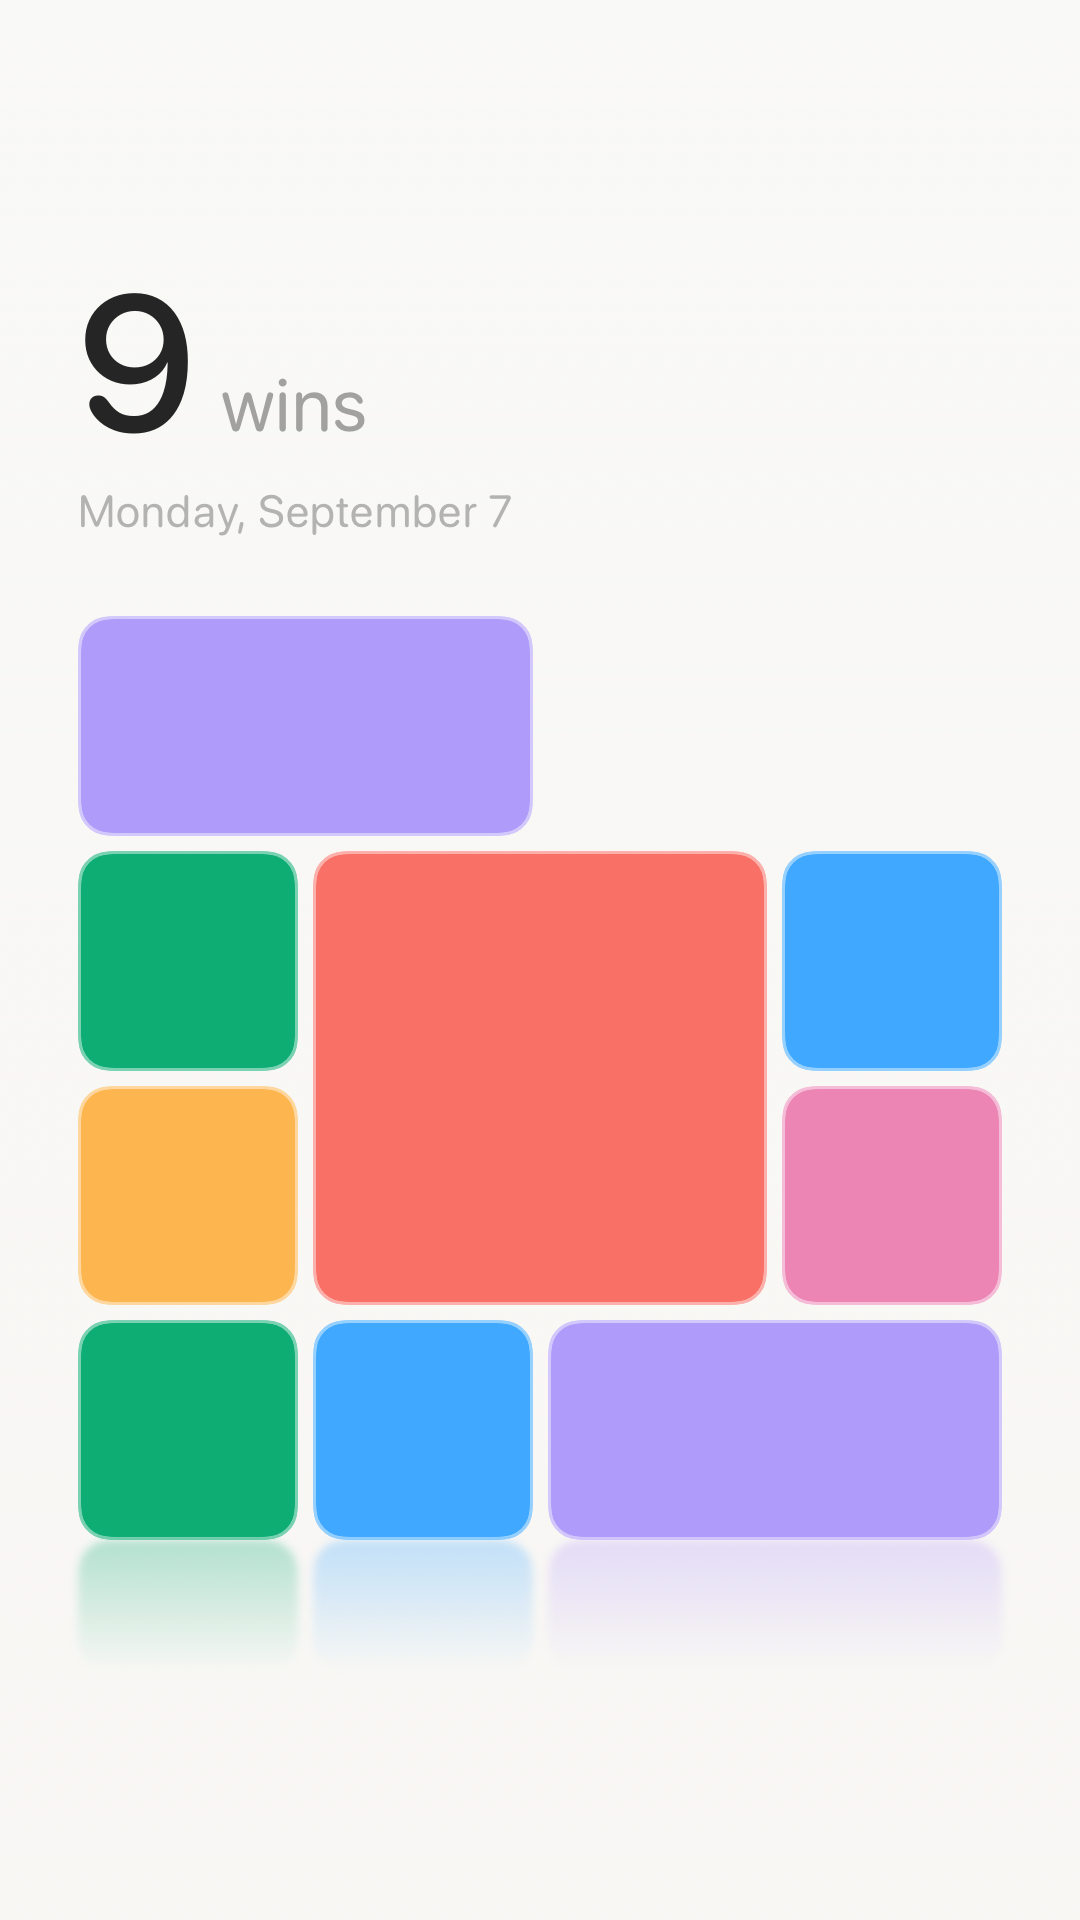
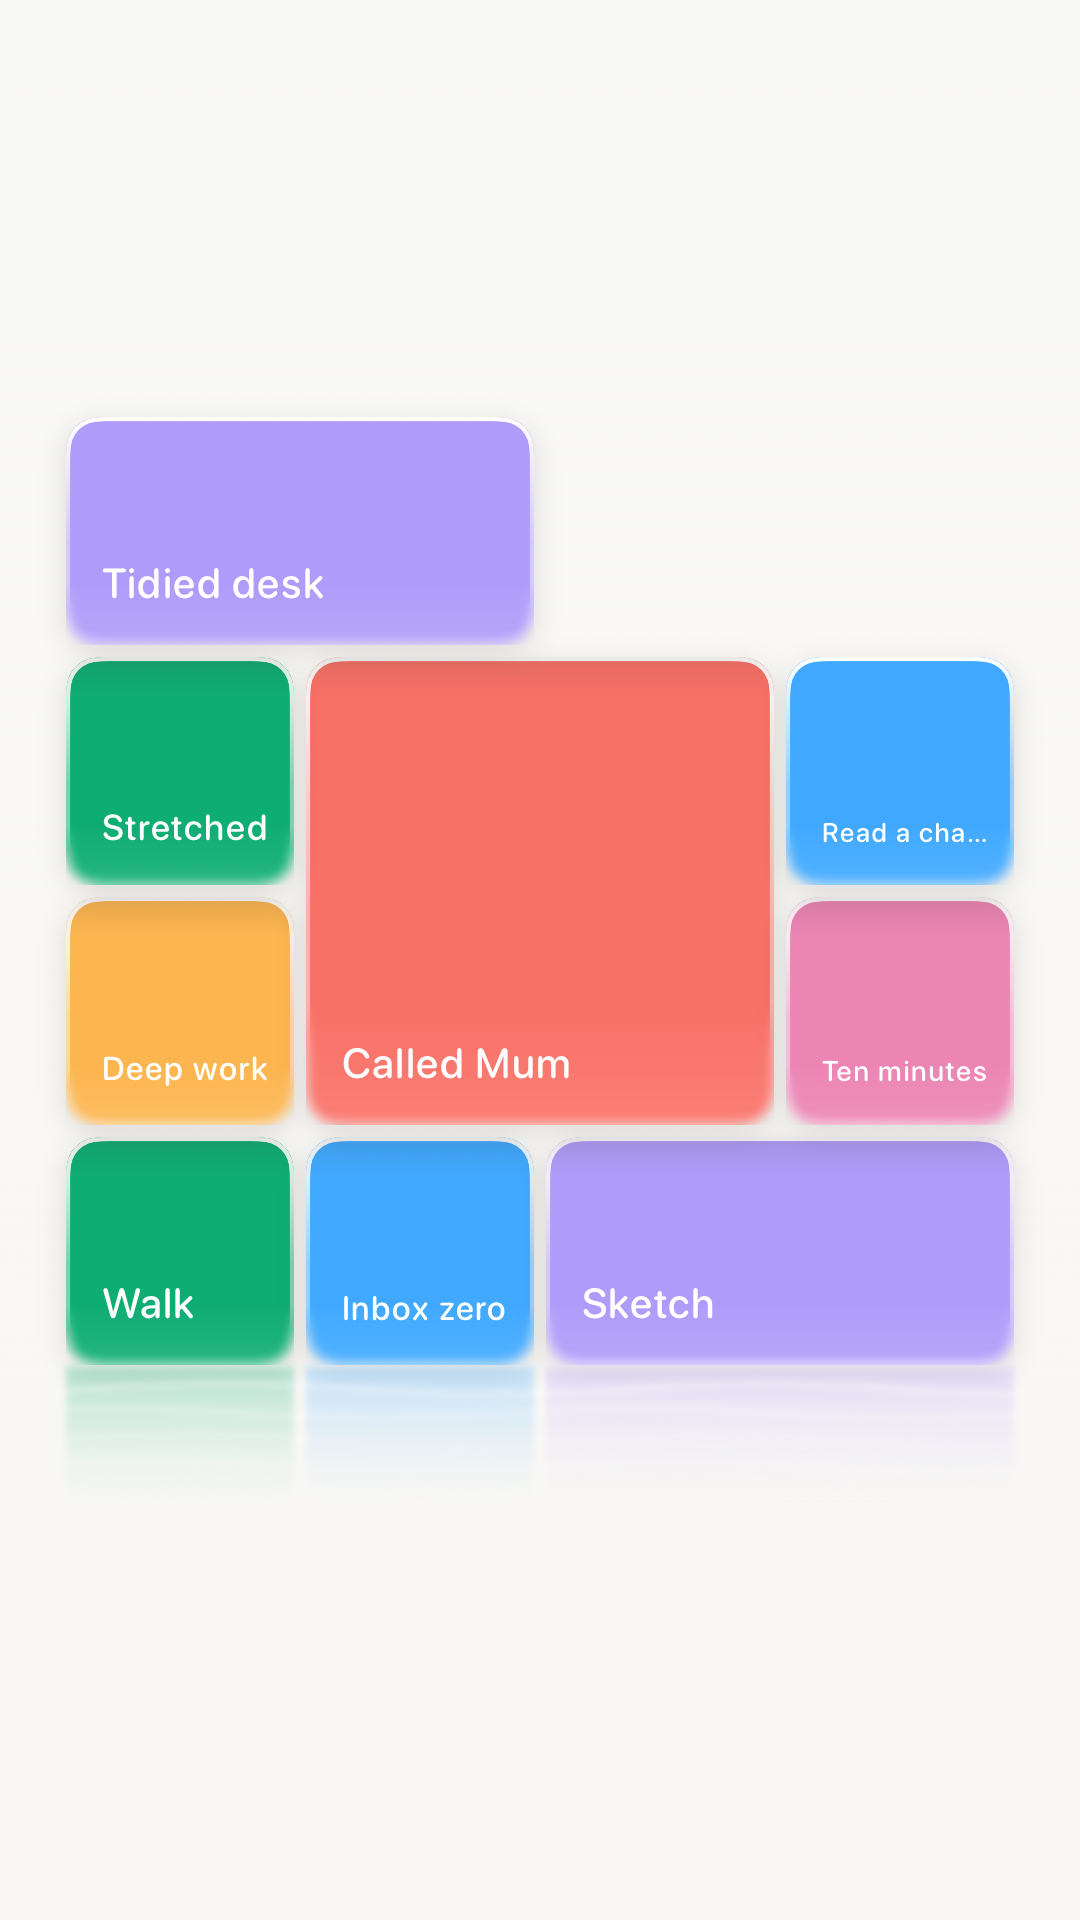
Share the actual tower, not a drawing of one
The card was building its own tower out of plain rounded rectangles.
That was wrong twice over: it meant maintaining a second tower that
would drift from the real one every time a block changed, and it meant
the picture people post of this app did not look like this app — no
rim, no frosted band, no contact shading, no merged runs, no photos.

It renders `FlippableBlockView` and `MergedGroupView` now, at whatever
cell size fits the card, on the real `TowerReflection`. It is not a
picture OF the tower; it is the tower, drawn larger.

The count and the date are gone with it. The blocks say how many there
are by being there — a number beside them is the same fact twice — and
a post already carries its own date.

Because the card renders outside the tower's view tree, the environment
the blocks read (`towerFilterMode`, `perfectDayDates`) has to be handed
to the renderer explicitly, or every block falls back to defaults.

Not verified: a tower whose blocks have PHOTOS. `ImageRenderer` snapshots
synchronously and `CachedImageView` loads asynchronously, so a photo
block may render blank in the card — the seeded fixtures have no photos,
so this is untested and is the first thing to check with a real one.

diff --git a/Strata/Views/ShareTowerCard.swift b/Strata/Views/ShareTowerCard.swift
@@ -1,3 +1,4 @@
+import SwiftData
 import SwiftUI
 import UIKit
 
@@ -26,9 +27,11 @@ import UIKit
 /// it, and the tower is distinctive enough that anyone who wants to know what
 /// it is will ask.
 struct ShareTowerCard: View {
-    let blocks: [TowerBarChart.MiniBlock]
-    let winCount: Int
-    let date: Date
+    let blocks: [PlacedBlock]
+    let mergeGroups: [MergeGroup]
+    let groupedIDs: Set<UUID>
+    let coveredIDs: Set<UUID>
+    let modelContext: ModelContext
 
     /// Story size. Rendered at 3x for a 1080x1920 image.
     static let size = CGSize(width: 360, height: 640)
@@ -38,122 +41,106 @@ struct ShareTowerCard: View {
     var body: some View {
         ZStack {
             WarmBackground()
-
-            // The whole composition is centred as ONE group.
-            //
-            // Pinning the count to the top and the tower to the bottom left
-            // about a third of the card empty down the middle — which is not
-            // minimalism, it is a gap. Keeping the two together and floating
-            // the pair puts equal air above and below, and the eye reads a
-            // caption and its picture rather than two things at opposite ends.
-            VStack(alignment: .leading, spacing: 26) {
-                VStack(alignment: .leading, spacing: 2) {
-                    HStack(alignment: .firstTextBaseline, spacing: 8) {
-                        Text("\(winCount)")
-                            .font(.system(size: 64, weight: .medium, design: .rounded))
-                            .foregroundStyle(.primary.opacity(0.85))
-                        Text(winCount == 1 ? "win" : "wins")
-                            .font(.system(size: 25, weight: .regular, design: .rounded))
-                            .foregroundStyle(.primary.opacity(0.35))
-                    }
-                    Text(date.formatted(.dateTime.weekday(.wide).month(.wide).day()))
-                        .font(.system(size: 15, weight: .regular, design: .rounded))
-                        .foregroundStyle(.primary.opacity(0.28))
-                }
-
-                tower
-            }
-            .padding(.horizontal, 26)
+            tower
         }
         .frame(width: Self.size.width, height: Self.size.height)
     }
 
-    /// The blocks, scaled so the whole tower fits the card whatever its height.    /// The blocks, scaled so the whole tower fits the card whatever its height.
+    /// The real tower, at whatever size fits the card.
     ///
-    /// A tall day and a short day both have to look composed, so the cell size
-    /// is solved for rather than fixed — capped so three blocks do not become
-    /// billboards.
+    /// The blocks are `FlippableBlockView` — the same view the tower draws, so
+    /// the card gets the rim, the frosted band, the contact shading, the
+    /// merged runs and the photos, because it IS them. Rebuilding a simplified
+    /// tower for the card meant maintaining a second one that would drift, and
+    /// shipping a picture of the app that did not look like the app.
+    ///
+    /// The count and the date are gone with it. The blocks say how many there
+    /// are by being there; a number beside them is the same fact twice, and a
+    /// date is something the post already carries.
     private var tower: some View {
         let columns = CGFloat(GridConstants.columnCount)
-        let available = CGSize(width: Self.size.width - 52, height: Self.size.height * 0.58)
-        let gap: CGFloat = 5
-        let byWidth = (available.width - (columns - 1) * gap) / columns
+        let spacing = GridConstants.spacing
+        // Room for the tower and the water under it.
+        let available = CGSize(
+            width: Self.size.width - 44,
+            height: Self.size.height - 96 - reflectionDepth
+        )
+        let byWidth = (available.width - (columns - 1) * spacing) / columns
         let byHeight = rows > 0
-            ? (available.height - CGFloat(rows - 1) * gap) / CGFloat(rows)
+            ? (available.height - CGFloat(rows - 1) * spacing) / CGFloat(rows)
             : byWidth
-        let cell = min(byWidth, byHeight, 74)
-        let w = columns * cell + (columns - 1) * gap
-        let h = rows > 0 ? CGFloat(rows) * cell + CGFloat(rows - 1) * gap : 0
+        // Capped so three blocks do not become billboards.
+        let cell = min(byWidth, byHeight, 82)
+        let gridW = columns * cell + (columns - 1) * spacing
+        let gridH = rows > 0 ? CGFloat(rows) * cell + CGFloat(rows - 1) * spacing : 0
+        let radius = cell * 0.147
 
         return VStack(spacing: 0) {
-            ZStack(alignment: .bottomLeading) {
-                Color.clear.frame(width: w, height: h)
-                ForEach(blocks) { block in
-                    blockShape(block, cell: cell, gap: gap)
-                }
-            }
-            .frame(width: w, height: h)
-
-            // The tower stands on its reflection here too.
-            //
-            // Without it the blocks float — a diagram of a tower rather than
-            // the tower, and the one thing anyone who has used the app would
-            // notice missing. It is the same trick the real page uses: the
-            // shape again, flipped, faded to nothing.
             ZStack(alignment: .topLeading) {
-                Color.clear.frame(width: w, height: reflectionDepth)
-                ForEach(bottomRow) { block in
-                    blockShape(block, cell: cell, gap: gap, reflected: true)
+                Color.clear.frame(width: gridW, height: gridH)
+
+                ForEach(mergeGroups) { group in
+                    MergedGroupView(
+                        group: group,
+                        cellSize: cell,
+                        gridWidth: gridW,
+                        gridHeight: gridH
+                    )
+                }
+
+                ForEach(blocks) { block in
+                    let f = GridConstants.blockFrame(
+                        column: block.column, row: block.row,
+                        columnSpan: block.columnSpan, rowSpan: block.rowSpan,
+                        cellSize: cell
+                    )
+                    FlippableBlockView(
+                        block: block,
+                        width: f.width,
+                        height: f.height,
+                        cornerRadius: radius,
+                        modelContext: modelContext,
+                        isGroupMember: groupedIDs.contains(block.id),
+                        isCovered: coveredIDs.contains(block.id)
+                    )
+                    .frame(width: f.width, height: f.height)
+                    .offset(x: f.minX, y: gridH - f.minY - f.height)
                 }
             }
-            .frame(width: w, height: reflectionDepth, alignment: .topLeading)
-            // Centre anchor, not `.top`. Flipping about the top edge maps
-            // y to -y, which sent the whole reflection UPWARD out of its own
-            // frame and drew nothing at all.
-            .scaleEffect(y: -1)
-            .mask(
-                LinearGradient(
-                    colors: [.black.opacity(0.30), .clear],
-                    startPoint: .top,
-                    endPoint: .bottom
-                )
+            .frame(width: gridW, height: gridH)
+
+            TowerReflection(
+                facets: facets(cell: cell),
+                impacts: [],
+                gridWidth: gridW,
+                cornerRadius: radius,
+                reduceMotion: true
             )
-            .blur(radius: 1.5)
+            .frame(width: gridW, height: reflectionDepth)
         }
-        .frame(maxWidth: .infinity, alignment: .center)
+        .frame(maxWidth: .infinity, maxHeight: .infinity, alignment: .center)
     }
 
-    private var reflectionDepth: CGFloat { 44 }
+    private var reflectionDepth: CGFloat { TowerReflection.depth }
 
-    /// Only the bottom row reaches the water — what is nearest is what
-    /// reflects, and a full mirrored tower reads as a second tower.
-    private var bottomRow: [TowerBarChart.MiniBlock] {
-        blocks.filter { $0.row == 0 }
-    }
-
-    private func blockShape(
-        _ block: TowerBarChart.MiniBlock,
-        cell: CGFloat,
-        gap: CGFloat,
-        reflected: Bool = false
-    ) -> some View {
-        let bw = CGFloat(block.columnSpan) * cell + CGFloat(block.columnSpan - 1) * gap
-        let bh = CGFloat(block.rowSpan) * cell + CGFloat(block.rowSpan - 1) * gap
-        return RoundedRectangle(cornerRadius: cell * 0.147, style: .continuous)
-            .fill(block.colour)
-            .frame(width: bw, height: reflected ? min(bh, reflectionDepth) : bh)
-            // The rim the tower's blocks wear, so the shared picture is the
-            // same object rather than a flat diagram of it.
-            .overlay {
-                if !reflected {
-                    RoundedRectangle(cornerRadius: cell * 0.147, style: .continuous)
-                        .strokeBorder(.white.opacity(0.45), lineWidth: 1)
-                }
+    /// What of the tower reaches the water: the bottom row, as colour and
+    /// width — the same rule the live page uses.
+    private func facets(cell: CGFloat) -> [TowerReflection.Facet] {
+        blocks
+            .filter { $0.row == 0 }
+            .map { block in
+                let f = GridConstants.blockFrame(
+                    column: block.column, row: 0,
+                    columnSpan: block.columnSpan, rowSpan: 1,
+                    cellSize: cell
+                )
+                return TowerReflection.Facet(
+                    id: block.id,
+                    x: f.minX,
+                    width: f.width,
+                    color: block.habit.displayCategory.style.baseColor
+                )
             }
-            .offset(
-                x: CGFloat(block.column) * (cell + gap),
-                y: reflected ? 0 : -CGFloat(block.row) * (cell + gap)
-            )
     }
 }
 
@@ -161,9 +148,25 @@ struct ShareTowerCard: View {
 enum TowerShare {
 
     @MainActor
-    static func image(blocks: [TowerBarChart.MiniBlock], winCount: Int, date: Date) -> UIImage? {
+    static func image(
+        blocks: [PlacedBlock],
+        mergeGroups: [MergeGroup],
+        groupedIDs: Set<UUID>,
+        coveredIDs: Set<UUID>,
+        modelContext: ModelContext
+    ) -> UIImage? {
         let renderer = ImageRenderer(
-            content: ShareTowerCard(blocks: blocks, winCount: winCount, date: date)
+            content: ShareTowerCard(
+                blocks: blocks,
+                mergeGroups: mergeGroups,
+                groupedIDs: groupedIDs,
+                coveredIDs: coveredIDs,
+                modelContext: modelContext
+            )
+            // The card renders outside the tower's view tree, so the
+            // environment the blocks read has to be handed to them.
+            .environment(\.towerFilterMode, .day)
+            .environment(\.perfectDayDates, [])
         )
         // 3x gives 1080x1920 — the size stories are actually stored at, so the
         // platform never has to resample it.

diff --git a/Strata/Views/MainAppView.swift b/Strata/Views/MainAppView.swift
@@ -368,9 +368,11 @@ struct MainAppView: View {
         }
         .sheet(isPresented: $isSharing) {
             if let image = TowerShare.image(
-                blocks: MiniTowerPacker.pack(filteredLogs),
-                winCount: towerVM.placedBlocks.count,
-                date: Date()
+                blocks: towerVM.placedBlocks,
+                mergeGroups: towerVM.mergeGroups,
+                groupedIDs: towerVM.groupedBlockIDs,
+                coveredIDs: towerVM.coveredBlockIDs,
+                modelContext: modelContext
             ) {
                 ShareSheet(activityItems: [image])
             }
@@ -1356,9 +1358,11 @@ struct MainAppView: View {
             Task { @MainActor in
                 try? await Task.sleep(for: .seconds(3))
                 guard let image = TowerShare.image(
-                    blocks: MiniTowerPacker.pack(filteredLogs),
-                    winCount: towerVM.placedBlocks.count,
-                    date: Date()
+                    blocks: towerVM.placedBlocks,
+                    mergeGroups: towerVM.mergeGroups,
+                    groupedIDs: towerVM.groupedBlockIDs,
+                    coveredIDs: towerVM.coveredBlockIDs,
+                    modelContext: modelContext
                 ), let data = image.pngData() else { return }
                 let url = URL.documentsDirectory.appending(path: "share-card.png")
                 try? data.write(to: url)
